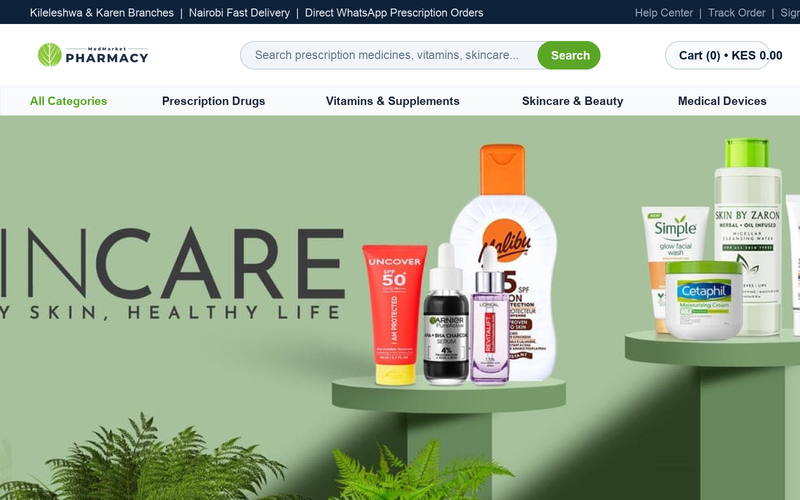
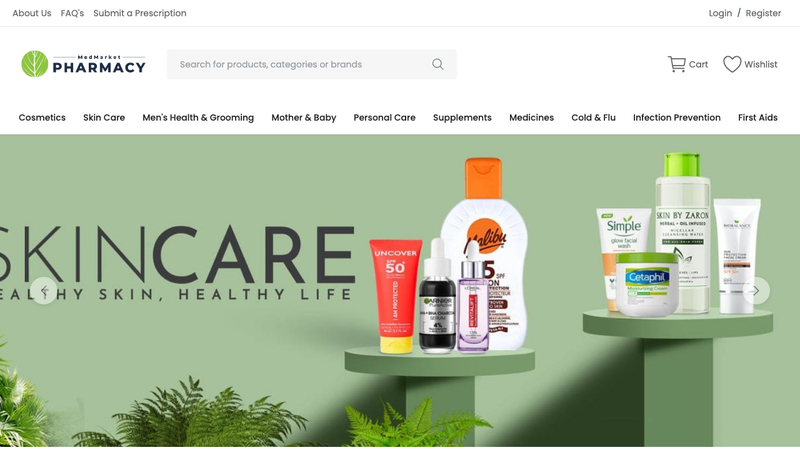
Update homepage selected client work with real desktop screenshot of MedMarket Pharmacy

diff --git a/index.html b/index.html
@@ -543,7 +543,7 @@
                     <div class="work-card-media">
                         <picture>
                             <source srcset="assets/images/case-studies/medmarket.webp" type="image/webp">
-                            <img src="assets/images/case-studies/medmarket.png" alt="MedMarket Pharmacy website — Online Pharmacy & Healthcare Marketplace in Nairobi" width="800" height="500" loading="lazy" decoding="async" class="work-card-img">
+                            <img src="assets/images/case-studies/medmarket.png" alt="MedMarket Pharmacy website — Online Pharmacy & Healthcare Marketplace in Nairobi" width="800" height="450" loading="lazy" decoding="async" class="work-card-img">
                         </picture>
                     </div>
                     <div class="work-card-body">
